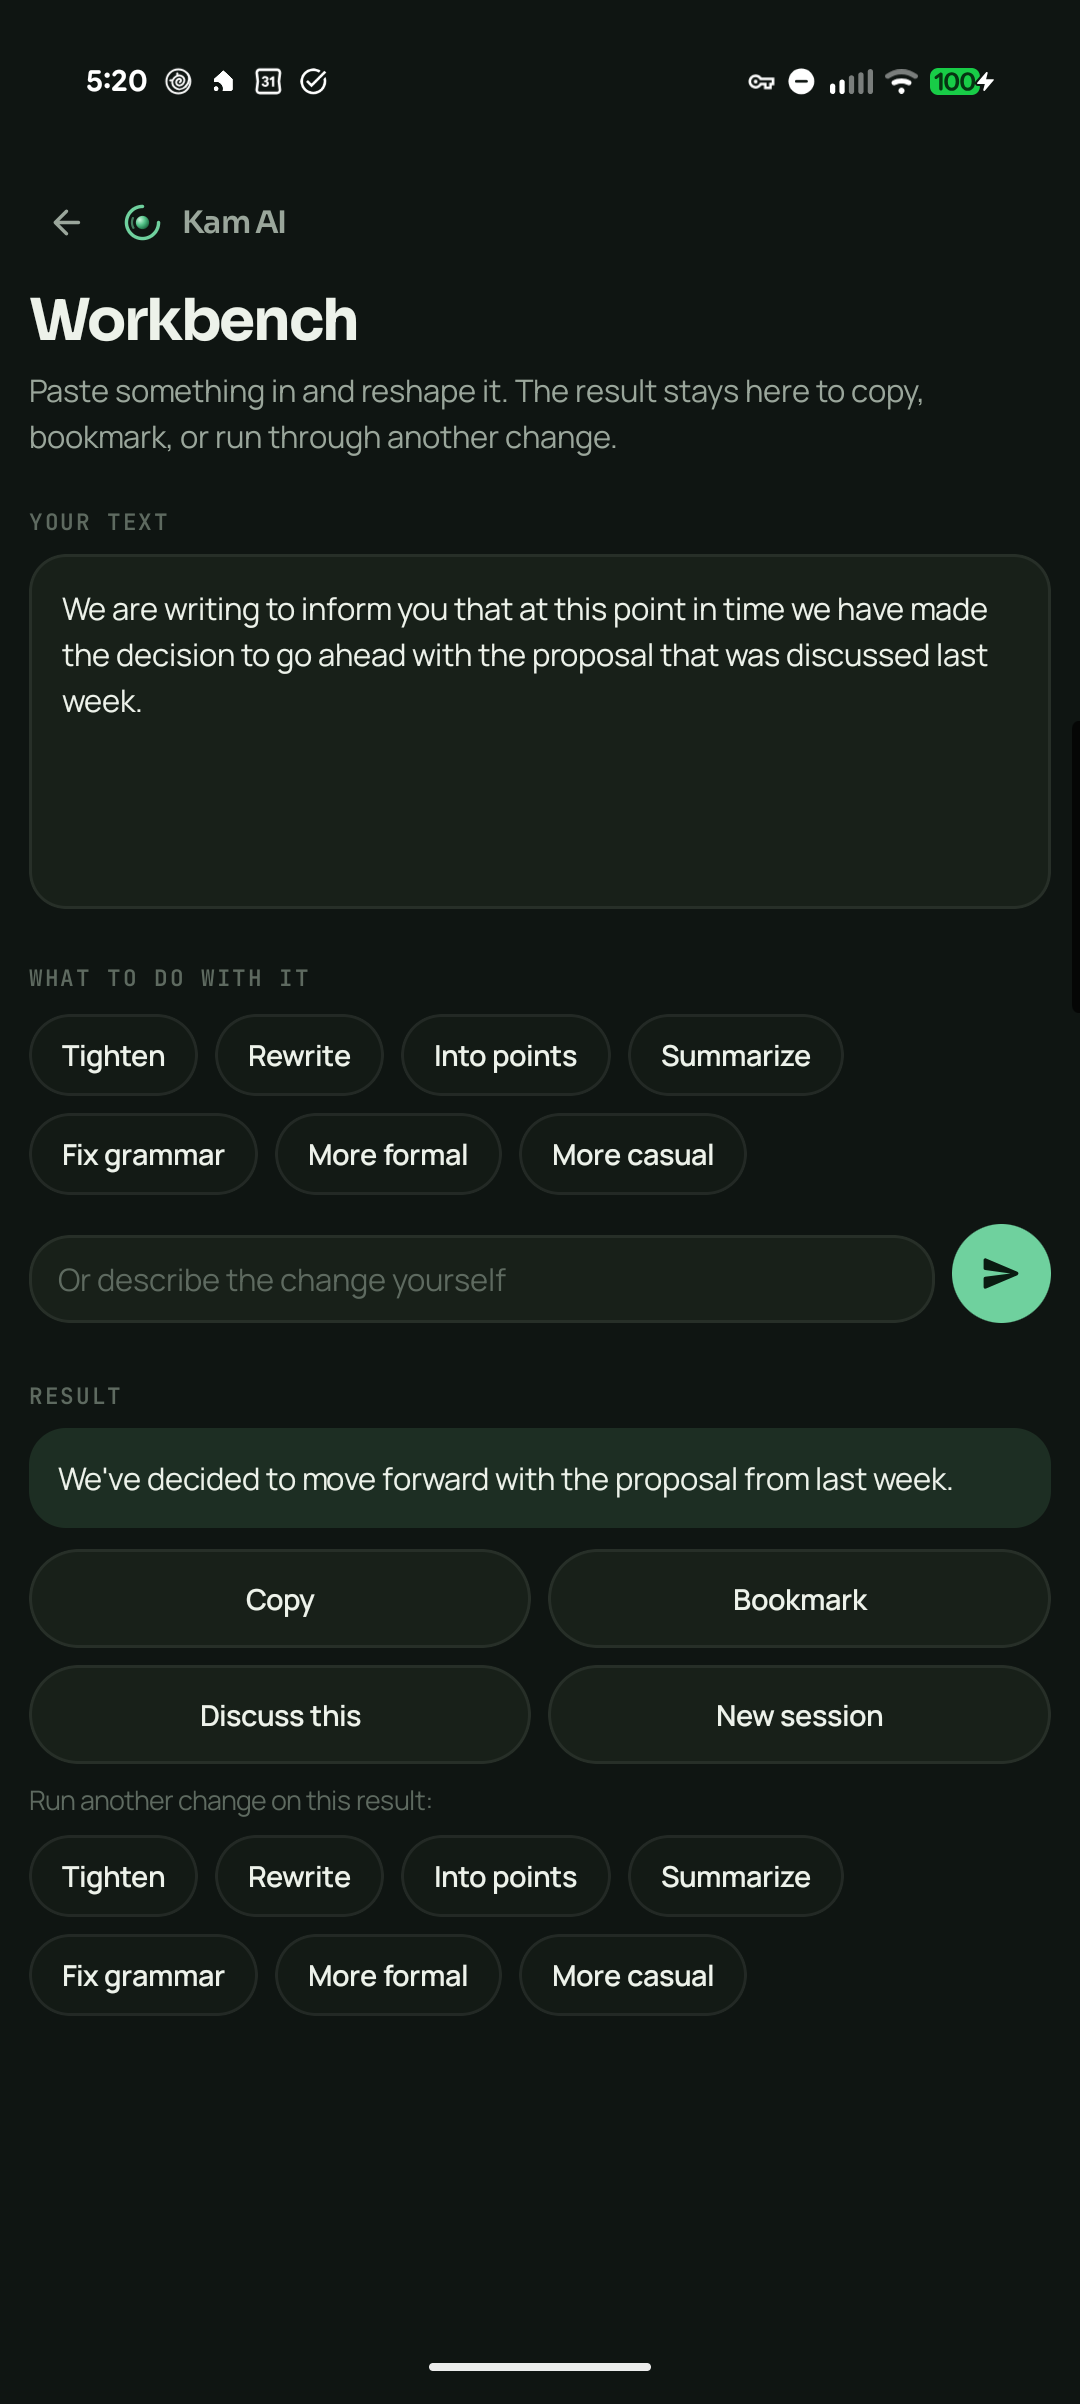
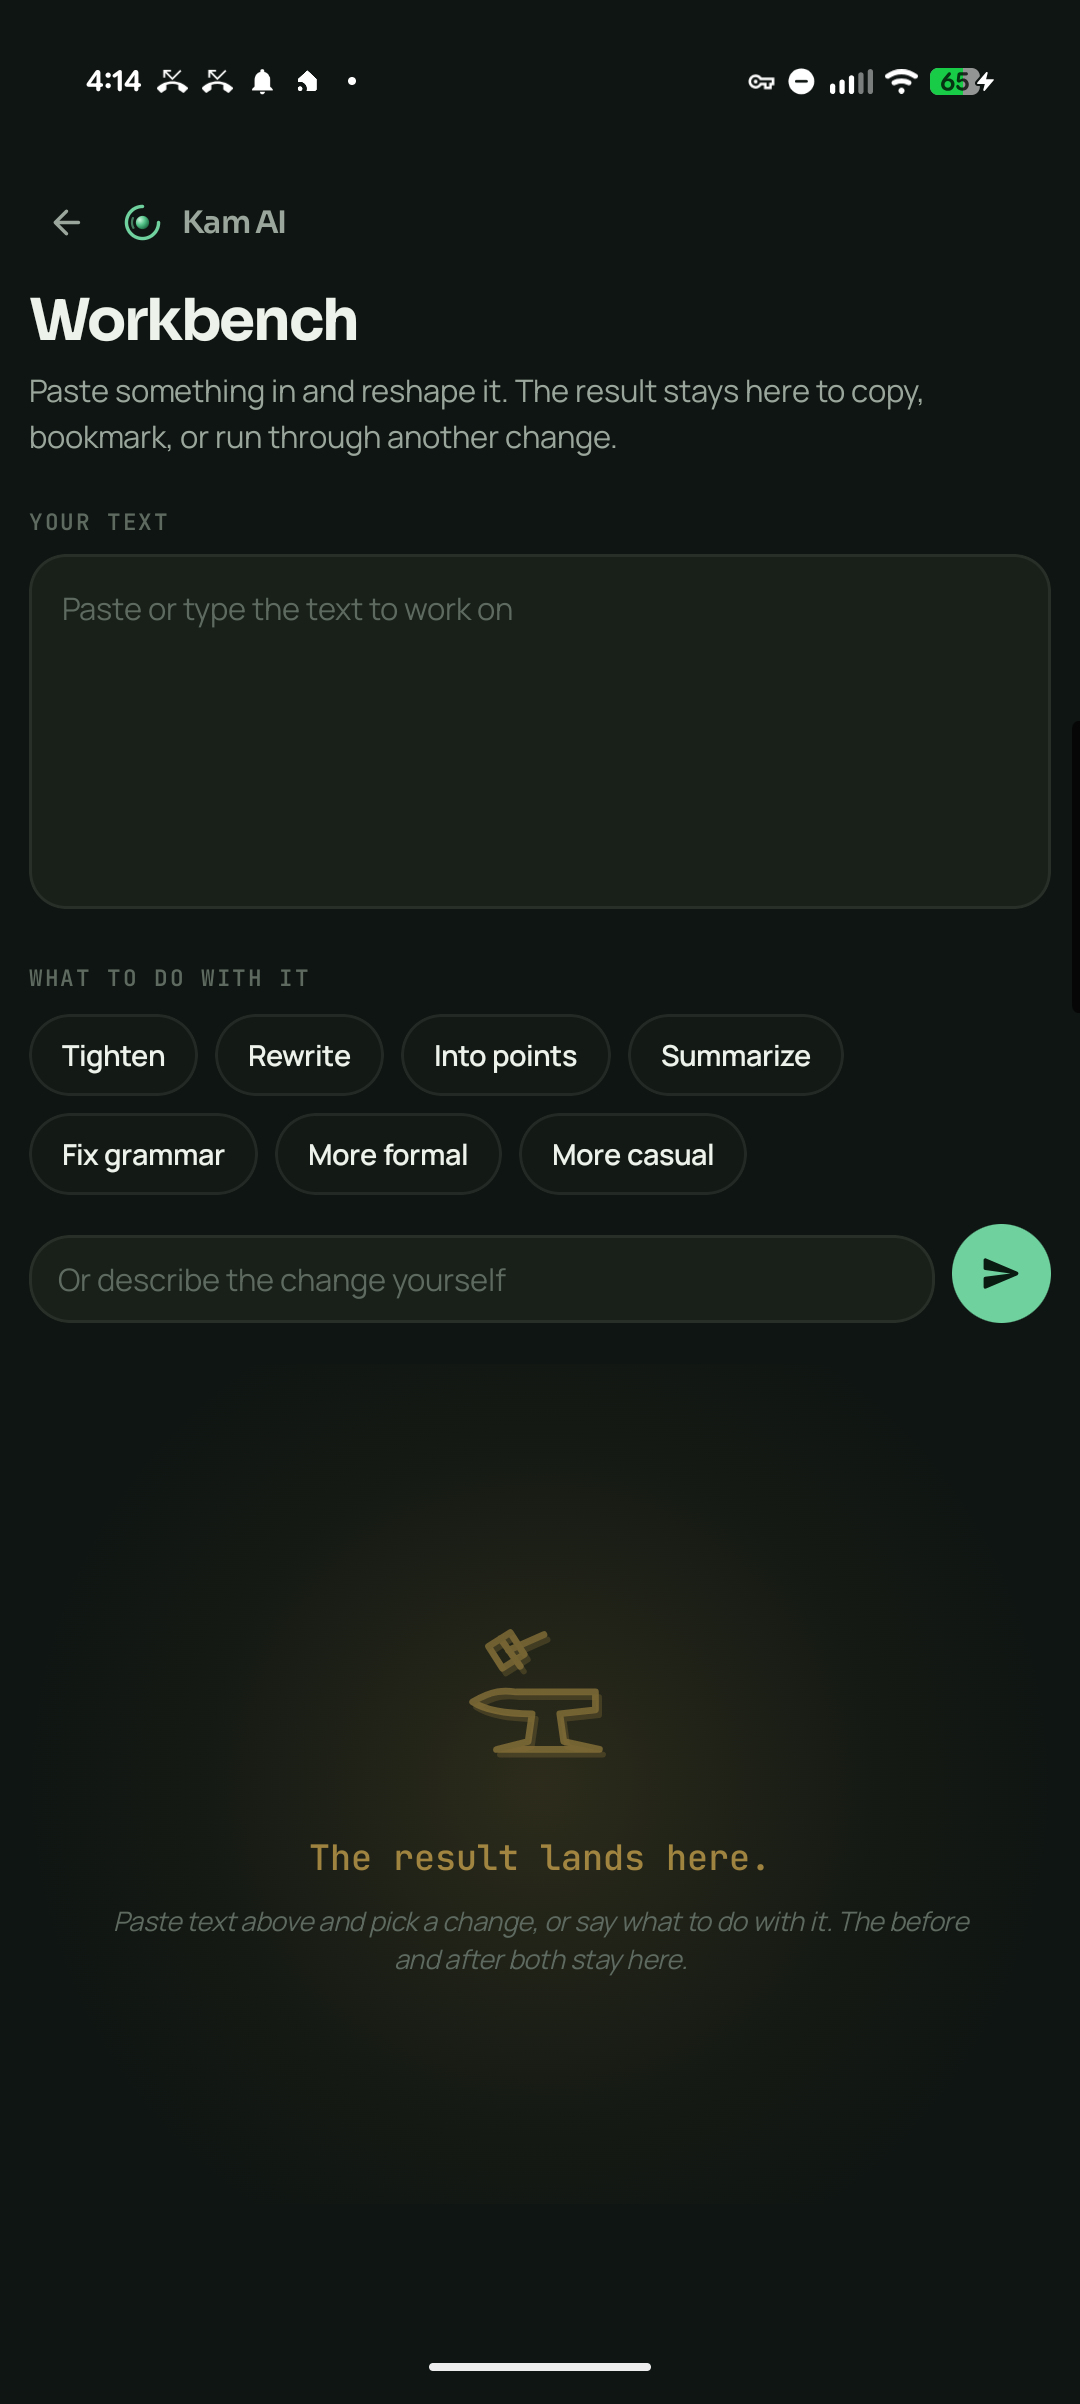
Recapture the whole screenshot set from a device that reads like ordinary use (#113)
Twenty documentation frames and five listing frames, all regenerated, all read
individually as a stranger would, both themes, both destinations. Nothing
superseded survives: both scripts empty their directory first, and git shows
twenty and five modified with none added and none deleted.

The list is seven seeded conversations across three modes plus one in a
project, aged 6h to 2w through the backup round trip, which is the only route
to those timestamps. The ages are keyed on content rather than seed order
because capture_store.sh opens rows one, two and three for the conversation,
logic and brainstorm frames, so which conversation is newest decides what three
frames show.

capture_store.sh had two faults and both are fixed. A refused capture printed
REFUSED and returned success, leaving the previous run's file in place so the
set looked complete and was silently stale. And it produced eight frames when
the canonical set is ten: Projects and Follow-ups were in docs/screenshots with
nothing regenerating them.

The README referenced twelve of the twenty. The four mode screens and Settings
were orphans, which is the drift this issue is named for, so they are in the
page now and every frame is used.

play-console-checklist.md said the listing assets were already uploaded and
verified. Nothing has ever been uploaded. Corrected in place and stated plainly
rather than quietly, because a reader who believed it would skip the upload.
[…]

diff --git a/HANDOFF.md b/HANDOFF.md
@@ -114,31 +114,57 @@ Two defects were found doing it and both are fixed: **#153** and **#154**, above
 The **archived view has no bulk selection**, so clearing 41 meant tapping "Move to Chats" 41 times
 and then one bulk delete from the main list. Not filed. It is a slow path, not a wrong one.
 
-### #113, the remaining steps
+### #113, steps 3 to 6: done, and closed
 
-**Permission to delete the owner's conversations is explicit and scoped to this.** The export gate
-is not passed, so **nothing has been deleted**.
+**Step 3, the seeding.** Seven conversations across General, Logic and Brainstorm, plus one inside
+a project, from `tools/seed_chats.sh`. Ordinary subjects: a tomato sauce stain, soaking chickpeas,
+yellowing leaf tips, a savings calculation, a laptop over three years against five, a fortieth
+birthday, a rushed morning, and a note to a letting agent about a boiler service.
 
-1. **Export everything and verify the round trip field by field.** The gate. The codec half is
-   well covered by `BackupRoundTripTest` and `BackupFieldCoverageTest`; what is unverified is the
-   device half: the picker, the passphrase, and merge versus replace. Open the exported file and
-   confirm it holds real conversations rather than trusting that export reported success.
-2. **Then delete:** the test conversations, the probe conversations, the roughly thirty archived
-   ones, and the throwaway project "Echo guard probe" with its chat. Archived is not enough, since
-   archived rows can still surface in a view.
-3. **Seed a chat list that reads like ordinary use.** Ordinary subjects, ordinary phrasing, a
-   spread of modes, plausible count and age. Nothing about this development process, a defect, a
-   privacy test or a hostility probe. **Verify each conversation rather than the exit code:** two
-   seeding runs previously did nothing silently and a third put six messages into one
-   conversation.
-4. **Read every frame as a stranger would.** Every visible title, snippet, reply and timestamp,
-   **including anything half visible at the top or bottom edge, because a partially scrolled row
-   still reads.** If a frame is even slightly ambiguous, reseed rather than ship it.
-5. **Both themes, both destinations, every frame from `tools/make_phone_shots.sh`.** Theme is
-   drivable with `adb shell cmd uimode night yes|no`. **The listing set and the README set are
-   different sets and must be checked separately**; the README frames appear never to have been
-   held to this standard and a technical visitor sees them first.
-6. Confirm no superseded image survives in either place.
+**Ages come through the backup round trip, and that is the only route to them.** Everything seeded
+in one run lands minutes apart, and a list where every row says "12m" reads as a device set up
+this morning. So: export, rewrite `createdAt` and `updatedAt`, re-encrypt with a fresh salt and
+nonce, import with Replace. The list now reads 6h, 2d, 3d, 5d, 1w, 1w, 2w. The script is in the
+scratchpad rather than `tools/`, but the method is written down here because it is the reusable
+part.
+
+**Ages are keyed on content, not on seed order, and that is load-bearing.** `capture_store.sh`
+opens rows one, two and three for the conversation, logic and brainstorm frames, so which
+conversation is newest decides what three frames show. Seed order would have put three General
+chats at the top and the wrong mode in two frames. **If the list is ever reseeded, check that
+before capturing.**
+
+**Steps 4 to 6.** All twenty frames read individually, both themes, then the five listing frames
+read again after cropping, because the crop changes both edges. The half-visible row at the foot
+of the Settings frame is "Open with the power button. Set up. Long-press power to ask", which
+reads true. `discover-light` and `discover-dark` show different passages because Discover deals at
+random; that is honest rather than a mismatch. Nothing superseded survives: both scripts empty
+their directory first, and git shows twenty and five files all modified, none added, none deleted.
+
+**Three things were found doing this and all three are fixed.**
+
+- **#153 and #154**, above.
+- **#155**, the capture guard. A frame came back with an incoming call from a contact across the
+  top of it, name and photograph. Destroyed, never committed. **A heads-up notification never
+  takes focus**, so both of `shot.sh`'s guards passed. Total silence rather than priority now, plus
+  a refusal while the shade window is on screen, which covers heads-up and pulled-down together.
+
+**Two harness lessons that will cost an hour if rediscovered:**
+
+- **Workbench is not a conversation.** It is its own screen with its input in the `workbench.input`
+  setting, and its composer sits close enough to a chat's that `say.sh` types into it and waits out
+  a real generation. The first seeding run reported eight of nine with the eighth having produced
+  nothing. It is out of `seed_chats.sh` now, and the Workbench frame comes from the screen itself.
+- **A finished generation is not a conversation.** `say.sh` returned success for a Brainstorm seed
+  that ended up with a user message and no reply. Count the list on the device; the script cannot.
+
+**The debris that only the backup file showed.** `system.instructions` still held #142's planted
+"I work at Pellingham Mutual ... Keep answers short", despite that issue's note saying it was
+cleared, and it was shaping every reply in the app. `workbench.input` held garbled text that would
+have gone straight into a frame. Neither is visible on a screen you would think to check. **The
+first seeded set was thrown away and reseeded because of it**, so the frames show what the app does
+by default rather than what it does under a test artifact. Read the settings array of an export
+before trusting that the device is clean.
 
 ### Onboarding and speed: done, with named gaps
 
@@ -181,14 +207,15 @@ is opened, defaulting to deferred when unsure, and saying why.**
 | | Every permission has a user-facing justification | **Done.** All seven traced to a feature and a listing location in `docs/release-permissions.md`. |
 | | Target API level 36 | **Done.** `targetSdk` 36, `compileSdk` 37. |
 | | No false claim about privacy, data handling, or what the app does with what a user types | **Partly done.** Three false claims found and fixed. The sweep has not been run end to end. See Part II. |
-| 113 | Screenshots matching the application | **Nearly done.** 20 documentation frames finished. No longer blocked on #133. Needs the probe conversations cleared, then two frames recaptured. |
-| 133 | Memory retrieval injects irrelevant facts | **Nearly done.** Ordering, relevance floor and interface half all fixed and device verified. Only `memory_leak.sh` plus #142's channel test remain. |
+| 113 | Screenshots matching the application | **Closed 30 July.** All 20 documentation frames and all 5 listing frames recaptured from a seeded, ordinary-looking device and read individually. |
+| 133 | Memory retrieval injects irrelevant facts | **Closed.** Ordering, relevance floor and interface half all fixed and device verified. |
 | 144 | A setting for whether the memory note appears | **Done.** Off by default, device verified, and it unblocked #113. |
-| 137 | Hostility repetition, and an insult trips the character rule | **Open, reopened once.** Fix verified on one phrasing, still fails on another. |
-| 134 | Nothing said or done when the phone throttles | **Fix committed, decision open.** Whether LIGHT should speak needs a measurement. |
+| 137 | Hostility repetition, and an insult trips the character rule | **Moved to deferred.** Open, and no longer labelled release-blocking on the tracker. |
+| 134 | Nothing said or done when the phone throttles | **Closed.** Settled by measurement: LIGHT is rare, and the status is not what a user feels. |
 | 142 | The echo guard checks one of six sources of prompt text | **Closed 30 July.** All six channels tested clean. The guard was deliberately not widened. |
 | 153 | Deleting a chat leaves the attached document on the device | **Closed 30 July.** Found while verifying the #113 export gate. Three delete paths fixed, 7 tests. |
 | 154 | The archive is unreachable when no chats are active | **Closed 30 July.** Found while clearing the list for #113, which it blocked. The empty state carries the link now. |
+| 155 | `shot.sh` captures heads-up notifications | **Closed 30 July.** A capture came back with a contact's incoming call across it. Destroyed. Focus is not a statement about pixels. |
 
 ### What is deferred to the review window
 

diff --git a/README.md b/README.md
@@ -84,6 +84,26 @@ Real captures from the phone, never mockups.
 <td><b>Follow-ups</b> is where everything you saved ends up, from anywhere in the app.</td>
 <td><b>Choosing a model.</b> Speed measured on your own phone, quality against the models offered here, and an honest note where one is weaker at something.</td>
 </tr>
+<tr>
+<td><img src="docs/screenshots/logic-light.png" alt="Logic Partner"></td>
+<td><img src="docs/screenshots/brainstorm-light.png" alt="Brainstorm"></td>
+<td><img src="docs/screenshots/workbench-light.png" alt="Workbench"></td>
+</tr>
+<tr>
+<td><b>Logic Partner</b> works a problem through rather than agreeing with it.</td>
+<td><b>Brainstorm</b> goes wide first and picks later.</td>
+<td><b>Workbench</b> takes text you already have and reshapes it, keeping the before and the after side by side.</td>
+</tr>
+<tr>
+<td><img src="docs/screenshots/settings-light.png" alt="Settings"></td>
+<td></td>
+<td></td>
+</tr>
+<tr>
+<td><b>Settings.</b> What is on the device, what it remembers, and where your data goes, which is nowhere.</td>
+<td></td>
+<td></td>
+</tr>
 </table>
 
 <details>
@@ -101,6 +121,16 @@ Real captures from the phone, never mockups.
 <td><img src="docs/screenshots/projects-dark.png" alt="Projects, dark"></td>
 <td><img src="docs/screenshots/followups-dark.png" alt="Follow-ups, dark"></td>
 <td><img src="docs/screenshots/model-dark.png" alt="Choosing a model, dark"></td>
+</tr>
+<tr>
+<td><img src="docs/screenshots/logic-dark.png" alt="Logic Partner, dark"></td>
+<td><img src="docs/screenshots/brainstorm-dark.png" alt="Brainstorm, dark"></td>
+<td><img src="docs/screenshots/workbench-dark.png" alt="Workbench, dark"></td>
+</tr>
+<tr>
+<td><img src="docs/screenshots/settings-dark.png" alt="Settings, dark"></td>
+<td></td>
+<td></td>
 </tr>
 </table>
 

diff --git a/docs/play-console-checklist.md b/docs/play-console-checklist.md
@@ -7,9 +7,16 @@ exposes only `contactEmail`, `contactPhone`, `contactWebsite` and
 `fullDescription` and `video`; and there is no data safety, privacy policy or
 category resource anywhere in the edits API.
 
-Everything the API **can** reach is already uploaded and verified: the title, the
-short and full descriptions, the icon, the feature graphic, and the phone
-screenshots.
+Everything the API **can** reach is written and ready to go, in
+`tools/play/listing.json` and `store-assets/`: the title, the short and full
+descriptions, the icon, the feature graphic, and the phone screenshots.
+
+**None of it has been uploaded.** An earlier version of this line said it was
+already uploaded and verified, and that was wrong. Nothing has ever been sent to
+the Console. That is worth stating plainly rather than quietly correcting,
+because a reader who believed it would skip the upload and then wonder why the
+listing was empty. The one consolation is the one HANDOFF already records: with
+nothing uploaded, no superseded asset can be lingering up there.
 
 Answers below are derived from the release build's actual behaviour, not from
 what was declared before. The foreground service work changed the permission set
